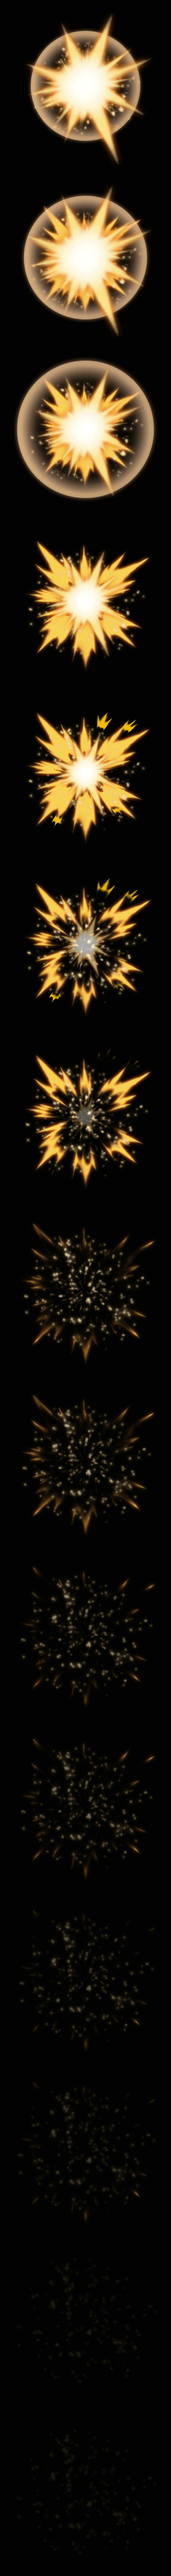
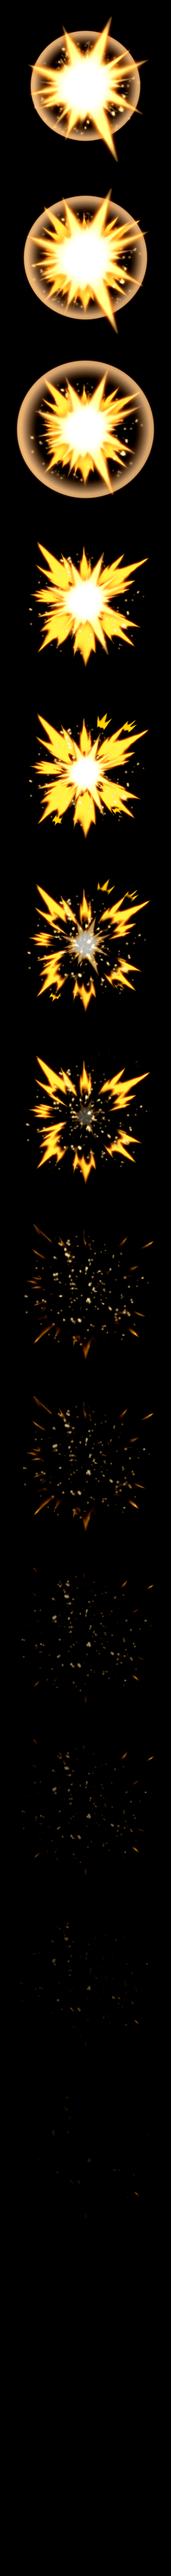
i have no idea

diff --git a/Projectiles/IgniterEx/IgniterStart.cs b/Projectiles/IgniterEx/IgniterStart.cs
@@ -850,7 +850,7 @@ namespace Stellamod.Projectiles.IgniterEx
 				for (int d = 0; d < 20; d++)
 				{
 					Vector2 speedea = Main.rand.NextVector2Circular(0.5f, 0.5f);
-					ParticleManager.NewParticle(Projectile.Center, speedea * 4, ParticleManager.NewInstance<ShadeParticle>(), Color.HotPink, Main.rand.NextFloat(0.2f, 0.8f));
+					ParticleManager.NewParticle(Projectile.Center, speedea * 4, ParticleManager.NewInstance<BurnParticle>(), Color.HotPink, Main.rand.NextFloat(0.2f, 0.8f));
 					target.AddBuff(ModContent.BuffType<EXPtime2>(), 1000);
 
 					Projectile.timeLeft = 200;

diff --git a/Projectiles/IgniterExplosions/KaBoomSpirit.cs b/Projectiles/IgniterExplosions/KaBoomSpirit.cs
@@ -16,8 +16,8 @@ namespace Stellamod.Projectiles.IgniterExplosions
 		public override void SetDefaults()
 		{
 			Projectile.friendly = false;
-			Projectile.width = 1;
-			Projectile.height = 1;
+			Projectile.width = 96;
+			Projectile.height = 96;
 			Projectile.penetrate = -1;
 			Projectile.timeLeft = 48;
 			Projectile.scale = 2f;

diff --git a/Projectiles/KaBoomKaev.cs b/Projectiles/KaBoomKaev.cs
@@ -18,8 +18,8 @@ namespace Stellamod.Projectiles
 		{
 			Projectile.friendly = true;
 			Projectile.DamageType = DamageClass.Magic;
-			Projectile.width = 192;
-			Projectile.height = 192;
+			Projectile.width = 96;
+			Projectile.height = 96;
 			Projectile.penetrate = -1;
 			Projectile.timeLeft = 24;
 			Projectile.scale = 1f;
